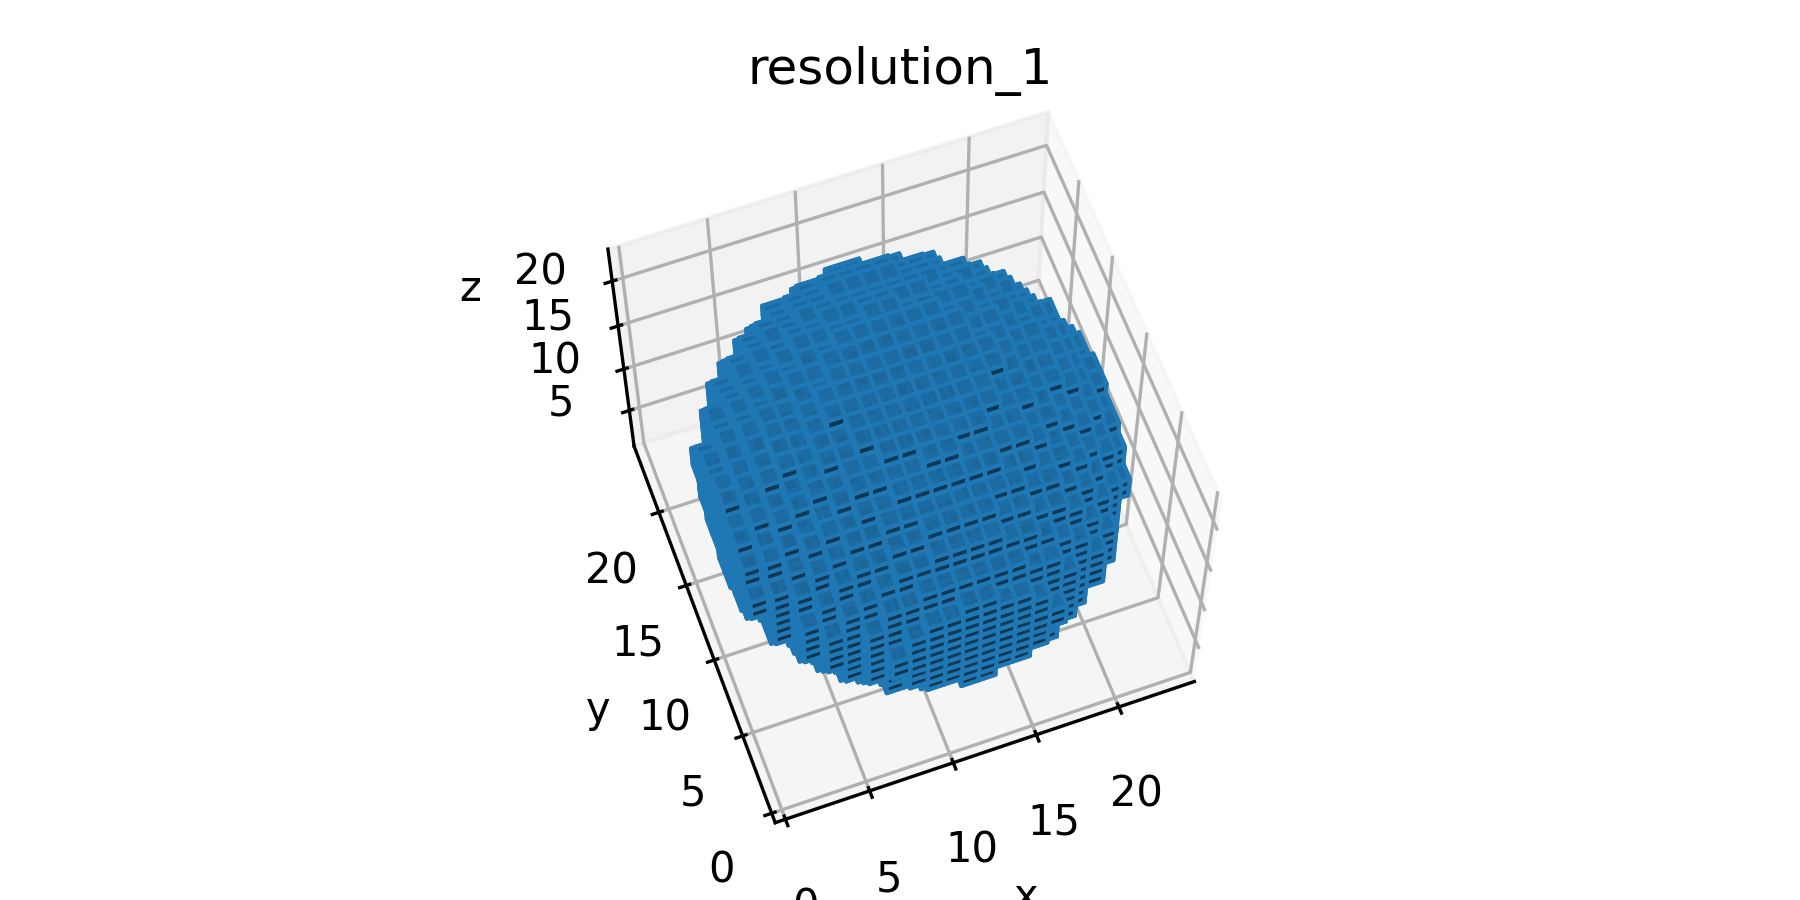
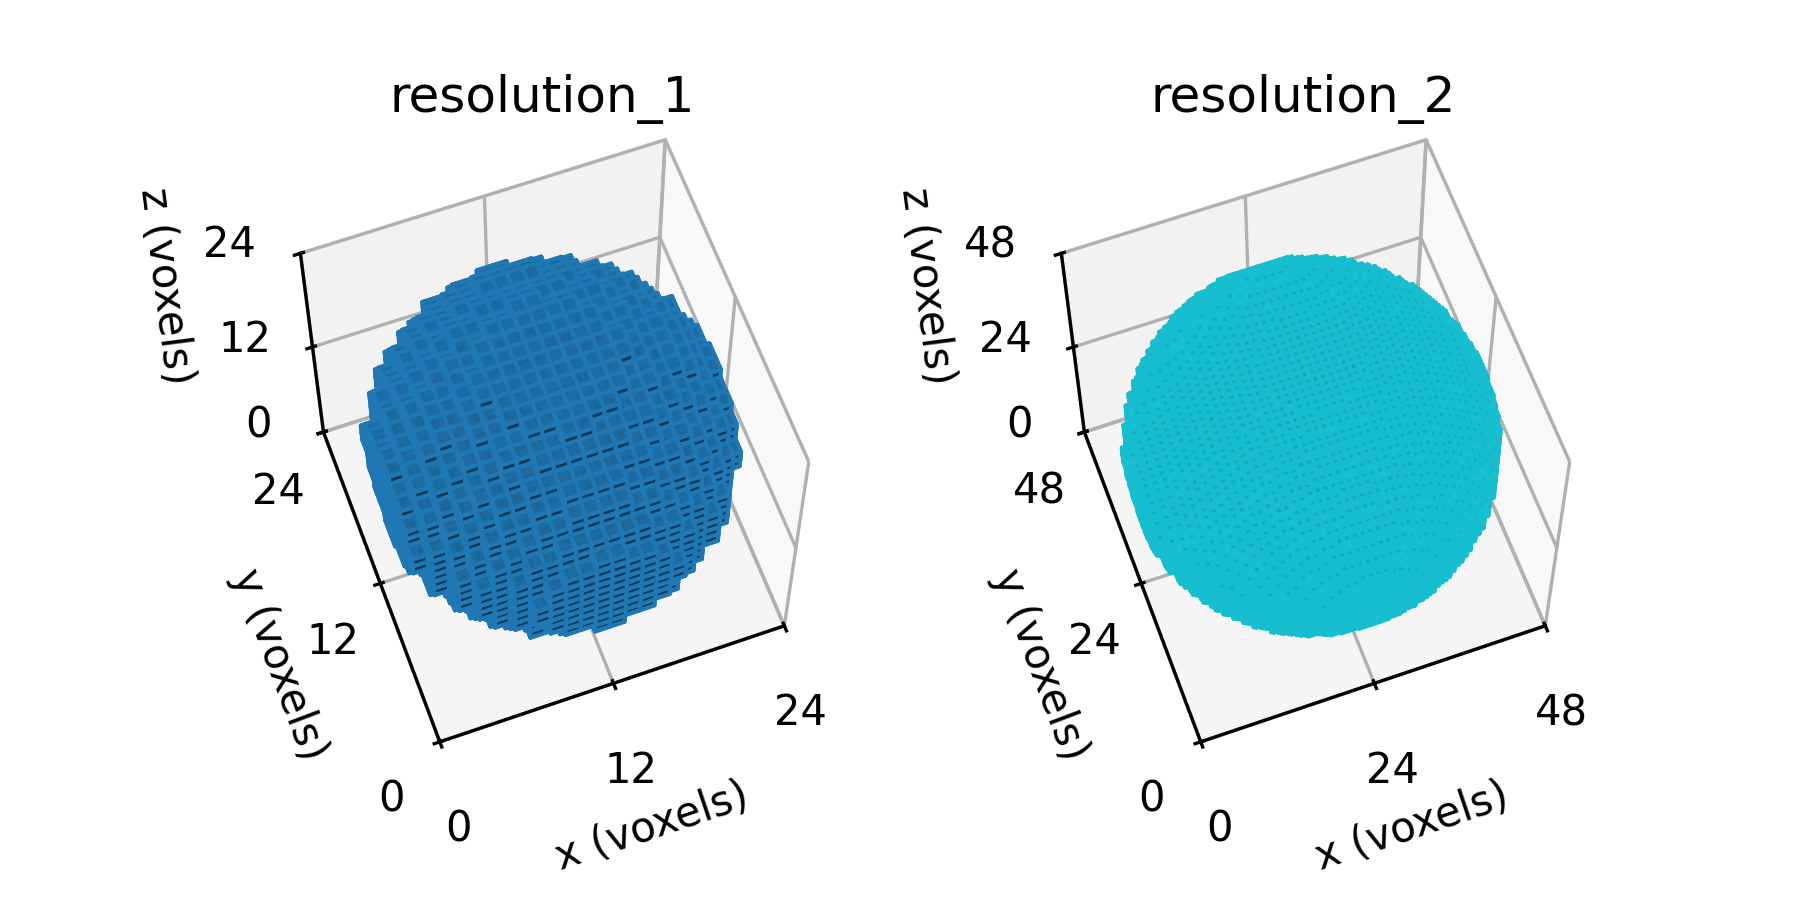
streamline narrative

diff --git a/book/examples/spheres_cont/spheres_cont.py b/book/examples/spheres_cont/spheres_cont.py
@@ -1,6 +1,11 @@
 """This module builds on the `spheres.py` module to create high resolution,
 three-material, concentric spheres and export the voxelization as a .npy
 file.
+
+Example
+-------
+source ~/autotwin/automesh/.venv/bin/activate
+python spheres_cont.py
 """
 
 from pathlib import Path
@@ -81,20 +86,18 @@ def sphere(resolution: int, dtype=np.uint8) -> np.ndarray:
     return result
 
 
+rr = (1, 2, 4, 10)  # resolutions (voxels per cm)
+lims = tuple(map(lambda x: [0, 24*x], rr))  # limits
+tt = tuple(map(lambda x: [0, 12*x, 24*x], rr))  # ticks
+
 # User input begin
 spheres = {
-    "resolution_1": sphere(resolution=1),
-    # "resolution_2": sphere(resolution=2),
+    "resolution_1": sphere(resolution=rr[0]),
+    "resolution_2": sphere(resolution=rr[1]),
 }
 
 aa = Path(__file__)
 bb = aa.with_suffix(".png")
-
-# vox_01_per_cm = sphere(resolution=1)
-# vox_02_per_cm = sphere(resolution=2)
-# vox_04_per_cm = sphere(resolution=4)
-# vox_10_per_cm = sphere(resolution=10)
-
 
 # Visualize the elements.
 # width, height = 8, 4
@@ -115,40 +118,45 @@ visualize: Final[bool] = True  # turn to True to show the figure on screen
 serialize: Final[bool] = True  # turn to True to save .png and .npy files
 # User input end
 
-# breakpoint()
 N_SUBPLOTS = len(spheres)
-IDX = 1
-for title, struc in spheres.items():
-    # for index (key, value) in enumerate(spheres.items()):
-    ax = fig.add_subplot(1, N_SUBPLOTS, IDX, projection=Axes3D.name)
+for index, (key, value) in enumerate(spheres.items()):
+    print(f"index: {index}")
+    print(f"key: {key}")
+    print(f"value: {value}")
+    ax = fig.add_subplot(1, N_SUBPLOTS, index+1, projection=Axes3D.name)
     ax.voxels(
-        struc,
-        facecolors=colors[IDX-1],
-        edgecolor=colors[IDX-1],
+        value,
+        facecolors=colors[index],
+        edgecolor=colors[index],
         alpha=voxel_alpha,
         lightsource=lightsource)
-    ax.set_title(title)
-    IDX += 1
+    ax.set_title(key)
 
     # Set labels for the axes
-    ax.set_xlabel("x")
-    ax.set_ylabel("y")
-    ax.set_zlabel("z")
+    ax.set_xlabel("x (voxels)")
+    ax.set_ylabel("y (voxels)")
+    ax.set_zlabel("z (voxels)")
 
-    # ax.set_xlim([0, 10])
+    ax.set_xticks(ticks=tt[index])
+    ax.set_yticks(ticks=tt[index])
+    ax.set_zticks(ticks=tt[index])
+
+    ax.set_xlim(lims[index])
+    ax.set_ylim(lims[index])
+    ax.set_zlim(lims[index])
 
     # Set the camera view
     ax.set_aspect("equal")
     ax.view_init(elev=el, azim=az, roll=roll)
 
     if serialize:
-        cc = aa.with_stem("spheres_" + title)
+        cc = aa.with_stem("spheres_" + key)
         dd = cc.with_suffix(".npy")
         # Save the data in .npy format
-        np.save(dd, struc)
+        np.save(dd, value)
         print(f"Saved: {dd}")
 
-fig.tight_layout()
+# fig.tight_layout()  # don't use as it clips the x-axis label
 if visualize:
     plt.show()
 

diff --git a/book/examples/spheres_cont/README.md b/book/examples/spheres_cont/README.md
@@ -1,20 +1,20 @@
 # Spheres - Continued
 
-Now we use the fundamentals learned in the [previous example](../spheres/README.md) to a more sophisticated example:  Concentric, high-resolution spheres consisting of three materials.
+Use the fundamentals learned in the [previous example](../spheres/README.md) to create a more sophisticated example:  Concentric, high-resolution spheres consisting of three materials.
 
 ## Problem Statement
 
 ### Given
 
-Given three concentric spheres of radius 10, 11, and 12 cm, as shown in the figure below:
+Given three concentric spheres of radius 10, 11, and 12 cm, as shown in the figure below,
 
 ![spheres_cont_dim](spheres_cont_dim.png)
 
-Figure: Three concentric spheres of radius 10, 11, and 12 cm.  Grid spacing is 1 cm.
+Figure: Schematic cross-section of three concentric spheres of radius 10, 11, and 12 cm.  Grid spacing is 1 cm.
 
 ### Find
 
-Create finite element meshes of the following resolutions:
+Use the following segmentation resolutions,
 
 resolution (vox/cm) | element side length (cm) | `nelx` | # voxels
 ---: | :---: | ---: | ---:
@@ -23,30 +23,40 @@ resolution (vox/cm) | element side length (cm) | `nelx` | # voxels
 4 | 025 | 96 | 884,736
 10 | 0.1 | 240 | 13,824,000
 
+with a cubic domain (`nelx = nely = nelz`),
+to create finite element meshes.
+
 ## Solution
 
-We use Python to create segmentations, then `Autotwin` to convert the segmentations into finite element meshes.
+Use [spheres_cont.py](spheres_cont.py) to create segmentations,
+
+```python
+<!-- cmdrun cat spheres_cont.py -->
+```
+
+Then use `Autotwin` to convert the segmentations into finite element meshes.
 
 ### Python Segmentation
 
 ![spheres_cont](spheres_cont.png)
 
-
 ### Autotwin
 
 ```sh
 automesh -i spheres_resolution_1.npy -o spheres_resolution_1.inp -x 24 -y 24 -z 24 -xtranslate -12 -ytranslate -12 -ztranslate -12
+# didn't work
 
 automesh -i spheres_resolution_1.npy -o spheres_resolution_1.inp -x 24 -y 24 -z 24 --xtranslate 24 --ytranslate 24 --ztranslate 24
+# works
 ```
 
 But translating in a negative direction seems to be error prone:
 
 ```sh
 automesh -i spheres_resolution_1.npy -o spheres_resolution_1.inp -x 24 -y 24 -z 24 --xtranslate -24 --ytranslate 24 --ztranslate 24
+# didn't work
 
 error: unexpected argument '-2' found
 ```
-
 
 ### Meshes
